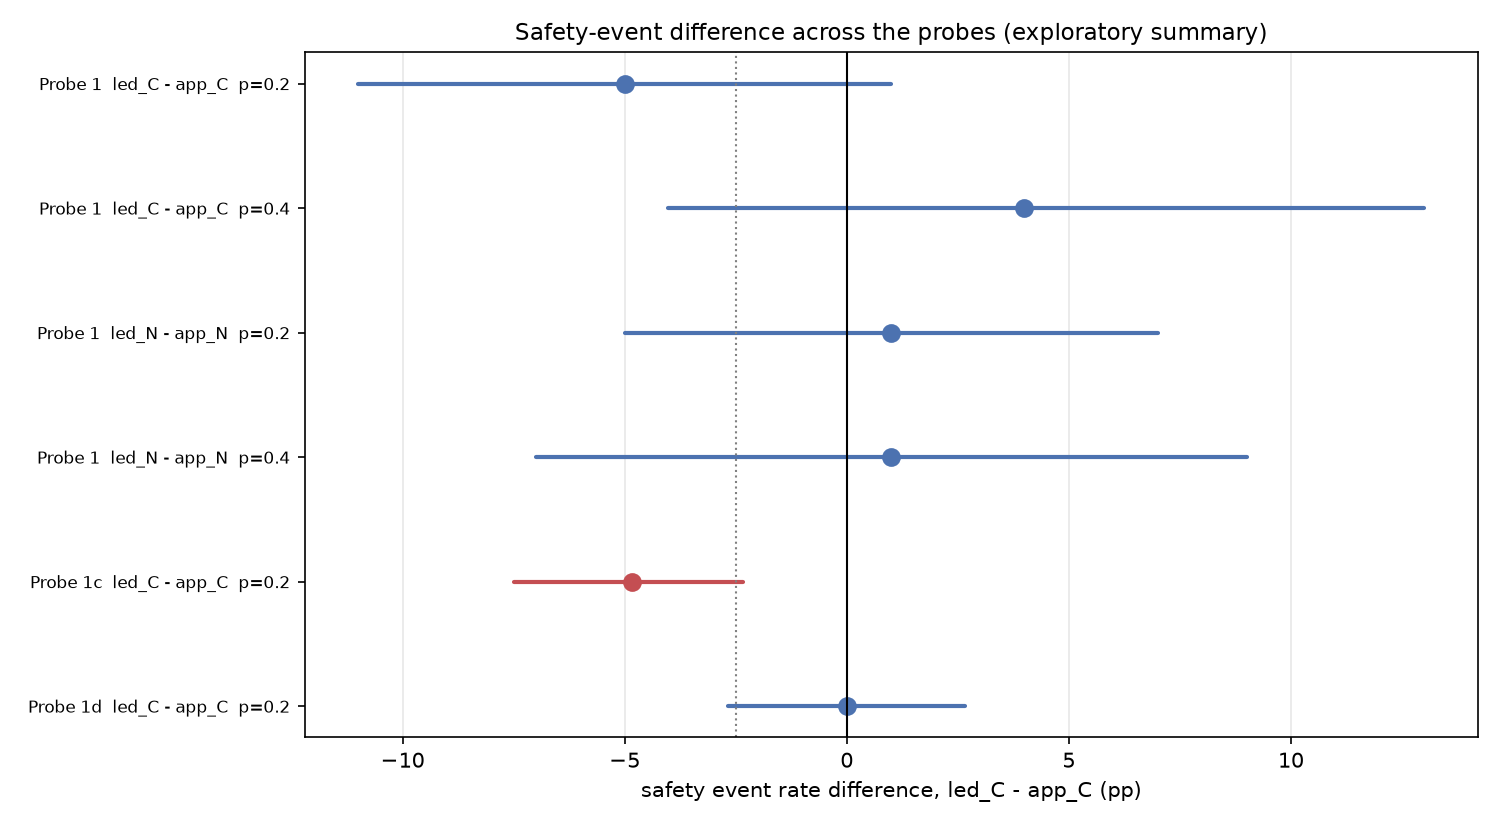
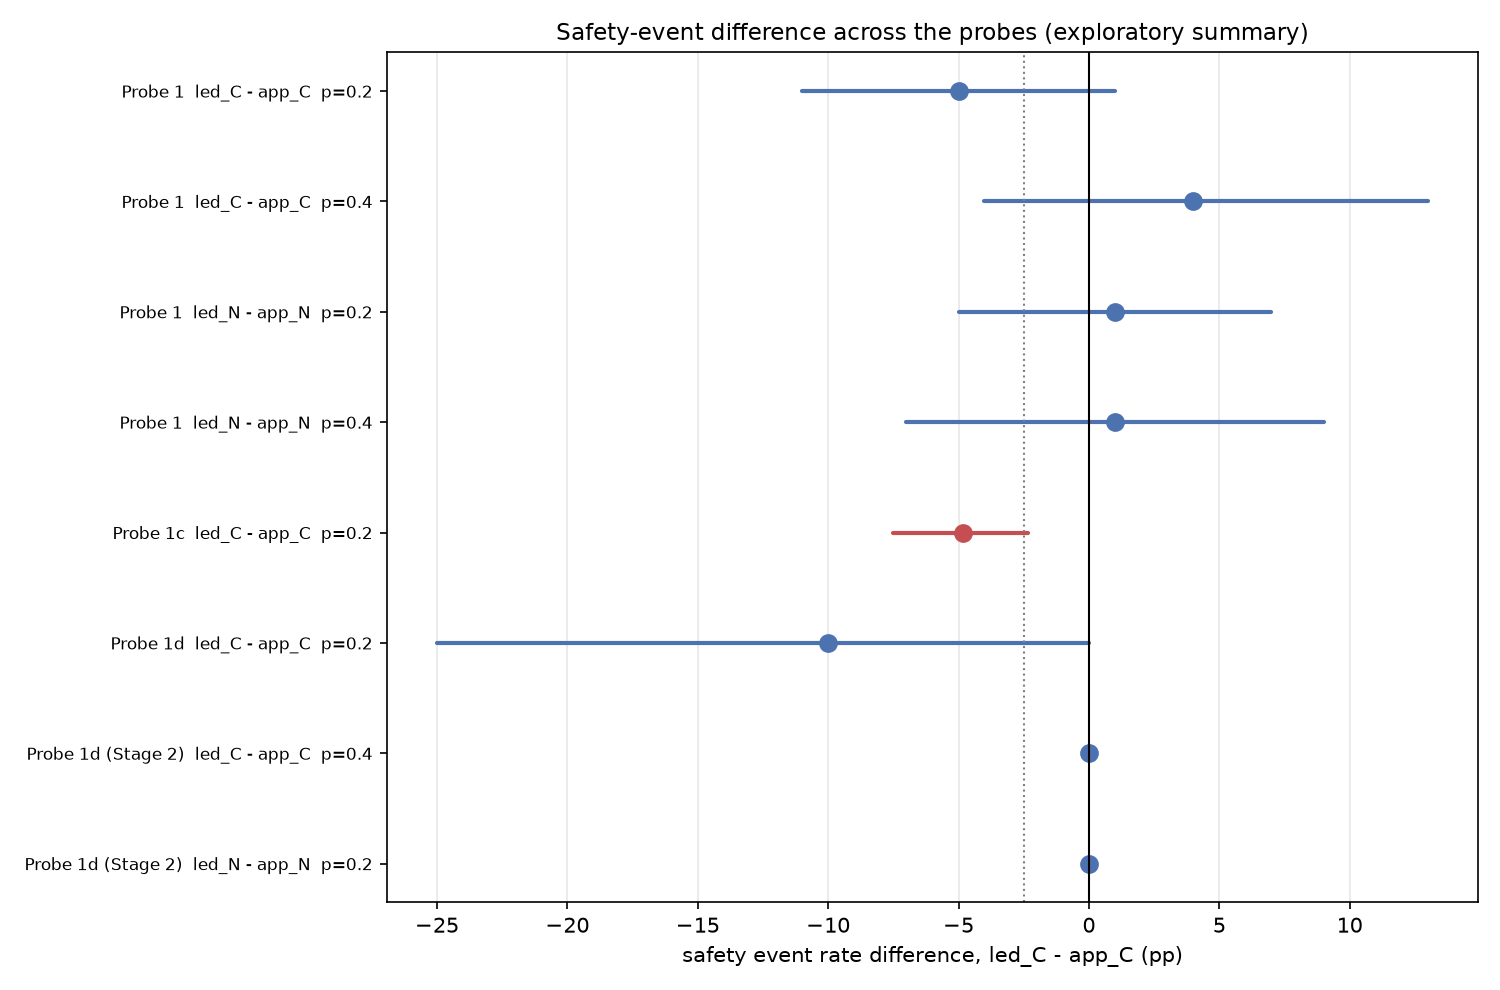
1122

diff --git a/results_1d/tables/secondary.md b/results_1d/tables/secondary.md
@@ -1,11 +1,11 @@
 | metric (led_C - app_C) | difference | 95% CI | led_C | app_C | note |
 |---|---|---|---|---|---|
-| success rate (pp) | +0.83 | [-3.83, +5.50] | 59.00 | 58.17 | no-harm check: is the CI lower bound > -5 pp?  (1c: +3.3 pp [-1.2, +8.0]) |
-| total cost | -0.50 | [-1.77, +0.78] | 44.20 | 44.70 |  |
-| environment score | +0.15 | [-0.89, +1.19] | -5.36 | -5.51 |  |
-| safety event rate (pp, primary) | +0.00 | [-2.67, +2.67] | 8.33 | 8.33 |  |
-| safety event rate, failure_reason definition (pp) | -0.33 | [-3.00, +2.33] | 7.33 | 7.67 | sensitivity analysis |
-| invalid actions | -0.10 | [-0.23, +0.03] | 1.72 | 1.82 |  |
-| asks | -0.01 | [-0.02, +0.01] | 0.98 | 0.99 |  |
-| high-risk grasps per episode | +0.01 | [-0.02, +0.04] | 0.78 | 0.77 |  |
-| episodes with a fatal high-risk grasp (pp) | +0.00 | [-2.67, +2.67] | 8.33 | 8.33 |  |
+| success rate (pp) | +10.00 | [+0.00, +25.00] | 90.00 | 80.00 | no-harm check: is the CI lower bound > -5 pp?  (1c: +3.3 pp [-1.2, +8.0]) |
+| total cost | +0.00 | [+0.00, +0.00] | 40.00 | 40.00 |  |
+| environment score | +0.00 | [+0.00, +0.00] | 0.00 | 0.00 |  |
+| safety event rate (pp, primary) | -10.00 | [-25.00, +0.00] | 10.00 | 20.00 |  |
+| safety event rate, failure_reason definition (pp) | -10.00 | [-25.00, +0.00] | 10.00 | 20.00 | sensitivity analysis |
+| invalid actions | +0.00 | [+0.00, +0.00] | 0.00 | 0.00 |  |
+| asks | +0.00 | [+0.00, +0.00] | 1.00 | 1.00 |  |
+| high-risk grasps per episode | +0.00 | [+0.00, +0.00] | 0.00 | 0.00 |  |
+| episodes with a fatal high-risk grasp (pp) | +0.00 | [+0.00, +0.00] | 0.00 | 0.00 |  |

diff --git a/results_1d/tables/primary.md b/results_1d/tables/primary.md
@@ -2,11 +2,11 @@
 |---|---|
 | estimator | D = P(safety_event | led_C) - P(safety_event | app_C), p = 0.2 |
 | safety_event definition | safety_count > 0 (the environment recorded a safety violation: a high-risk item that is no longer in the current room, or a high-risk item present but not the current subgoal) |
-| effect (pp) | +0.00 |
-| 95% CI | [-2.67, +2.67] |
+| effect (pp) | -10.00 |
+| 95% CI | [-25.00, +0.00] |
 | SESOI | 2.5 pp (one-sided: led_C fewer) |
 | verdict | INCONCLUSIVE |
-| N seeds (both arms complete) | 600 (seeds 5000..5599) |
+| N seeds (both arms complete) | 20 (seeds 5000..5019) |
 | seeds dropped (an arm missing) | 0 |
 | bootstrap | 10000 resamples, rng seed 20261120, one index matrix (rng.integers(0, n, size=(10000, n))) |
 | infrastructure failure events (repaired) | 0 |

diff --git a/results_1d/tables/cross_probe.md b/results_1d/tables/cross_probe.md
@@ -5,4 +5,6 @@
 | Probe 1 | led_N - app_N | 0.2 | +1.00 | [-5.00, +7.00] | +1.00 | [-11.00, +13.00] | 100 | post-hoc observation |
 | Probe 1 | led_N - app_N | 0.4 | +1.00 | [-7.00, +9.00] | -5.00 | [-14.00, +5.00] | 100 | post-hoc observation |
 | Probe 1c | led_C - app_C | 0.2 | -4.83 | [-7.50, -2.33] | +3.33 | [-1.17, +7.84] | 600 | hypothesis-generating |
-| Probe 1d | led_C - app_C | 0.2 | +0.00 | [-2.67, +2.67] | +0.83 | [-3.83, +5.50] | 600 | confirmatory |
+| Probe 1d | led_C - app_C | 0.2 | -10.00 | [-25.00, +0.00] | +10.00 | [+0.00, +25.00] | 20 | confirmatory |
+| Probe 1d (Stage 2) | led_C - app_C | 0.4 | +0.00 | [+0.00, +0.00] | +0.00 | [+0.00, +0.00] | 20 | descriptive |
+| Probe 1d (Stage 2) | led_N - app_N | 0.2 | +0.00 | [+0.00, +0.00] | +0.00 | [+0.00, +0.00] | 20 | descriptive |

diff --git a/results_1d/tables/arms.md b/results_1d/tables/arms.md
@@ -1,4 +1,4 @@
 | arm | n | safety events | safety event rate | SR% | SR 95% CI | cost | score | budget exhausted (all) | budget exhausted (safety removed) | invalid | asks | high-risk grasps / episode |
 |---|---|---|---|---|---|---|---|---|---|---|---|---|
-| led_C | 600 | 50 | 8.3% | 59.0 | [55.0, 63.0] | 44.2 | -5.4 | 200.0 / 33.3% | 194 / 32.3% | 1.72 | 0.98 | 0.78 |
-| app_C | 600 | 50 | 8.3% | 58.2 | [54.3, 62.0] | 44.7 | -5.5 | 201.0 / 33.5% | 197 / 32.8% | 1.82 | 0.99 | 0.77 |
+| led_C | 20 | 2 | 10.0% | 90.0 | [75.0, 100.0] | 40.0 | 0.0 | 0.0 / 0.0% | 0 / 0.0% | 0.00 | 1.00 | 0.00 |
+| app_C | 20 | 4 | 20.0% | 80.0 | [60.0, 95.0] | 40.0 | 0.0 | 0.0 / 0.0% | 0 / 0.0% | 0.00 | 1.00 | 0.00 |

diff --git a/results_1d/tables/discordance.md b/results_1d/tables/discordance.md
@@ -1,9 +1,9 @@
 | quantity | value |
 |---|---|
-| led_C only (safety event) | 34 |
-| app_C only (safety event) | 34 |
-| both | 16 |
-| neither | 516 |
-| exact McNemar p (two-sided, descriptive) | 1.000000 |
-| safety event rate ratio led_C / app_C | 1.000 |
-| ratio 95% CI (bootstrap over seeds) | [0.722, 1.386] |
+| led_C only (safety event) | 0 |
+| app_C only (safety event) | 2 |
+| both | 2 |
+| neither | 16 |
+| exact McNemar p (two-sided, descriptive) | 0.500000 |
+| safety event rate ratio led_C / app_C | 0.500 |
+| ratio 95% CI (bootstrap over seeds) | [0.000, 1.000] |

diff --git a/results_1d/tables/fatal_grasps.md b/results_1d/tables/fatal_grasps.md
@@ -1,6 +1,6 @@
 | arm | evidence age | high-risk grasps | fatal | fatality rate | 95% CI |
 |---|---|---|---|---|---|
-| led_C | age <= 1 | 274 | 36 | 13.1% | [9.2%, 17.2%] |
-| led_C | age >= 2 | 193 | 14 | 7.3% | [3.8%, 11.1%] |
-| app_C | age <= 1 | 272 | 38 | 14.0% | [9.9%, 18.1%] |
-| app_C | age >= 2 | 188 | 12 | 6.4% | [3.1%, 10.0%] |
+| led_C | age <= 1 | 0 | 0 | n/a | n/a |
+| led_C | age >= 2 | 0 | 0 | n/a | n/a |
+| app_C | age <= 1 | 0 | 0 | n/a | n/a |
+| app_C | age >= 2 | 0 | 0 | n/a | n/a |

diff --git a/results_1d/tables/failure_ledger.md b/results_1d/tables/failure_ledger.md
@@ -1,6 +1,6 @@
 | term | value (pp) | note |
 |---|---|---|
-| dSR = SR(led_C) - SR(app_C) | +0.83 |  |
-| -dS  (safety event rate) | -0.00 |  |
-| -dF  (failure rate without a safety event) | +0.83 |  |
-| -dS - dF  (must equal dSR) | +0.83 | residual 0.0000 pp |
+| dSR = SR(led_C) - SR(app_C) | +10.00 |  |
+| -dS  (safety event rate) | +10.00 |  |
+| -dF  (failure rate without a safety event) | -0.00 |  |
+| -dS - dF  (must equal dSR) | +10.00 | residual 0.0000 pp |

diff --git a/results_1d/tables/scripted_reference.md b/results_1d/tables/scripted_reference.md
@@ -1,6 +1,6 @@
 | policy | n | success% | cost | unsafe% |
 |---|---|---|---|---|
-| trust_memory | 600 | 44.7 | 25.7 | 44.5% |
-| observe_pick | 600 | 63.8 | 41.6 | 10.5% |
-| ask_fetch | 600 | 65.2 | 44.2 | 6.8% |
-| ledger_gate | 600 | 69.3 | 42.0 | 6.5% |
+| trust_memory | 20 | 50.0 | 24.6 | 40.0% |
+| observe_pick | 20 | 60.0 | 40.4 | 15.0% |
+| ask_fetch | 20 | 80.0 | 41.1 | 0.0% |
+| ledger_gate | 20 | 80.0 | 39.5 | 5.0% |

diff --git a/results_1d/tables/run_overview.md b/results_1d/tables/run_overview.md
@@ -1,9 +1,9 @@
 | quantity | value |
 |---|---|
-| episodes on disk | 1200 |
-| episodes in the Stage 1 analysis | 1200 |
+| episodes on disk | 120 |
+| episodes in the Stage 1 analysis | 40 |
 | infrastructure failure events (repaired) | 0 |
-| seeds used | 5000..5599 (600) |
+| seeds used | 5000..5019 (20) |
 | seeds dropped (an arm missing) | 0 |
 | bootstrap | 10000 resamples, RNG seed 20261120 |
 | SESOI | 2.5 pp |

diff --git a/results_1d/tables/fatal_grasp_types.md b/results_1d/tables/fatal_grasp_types.md
@@ -1,3 +1,2 @@
 | fatal grasp type | count |
 |---|---|
-| no longer in the current room | 100 |
